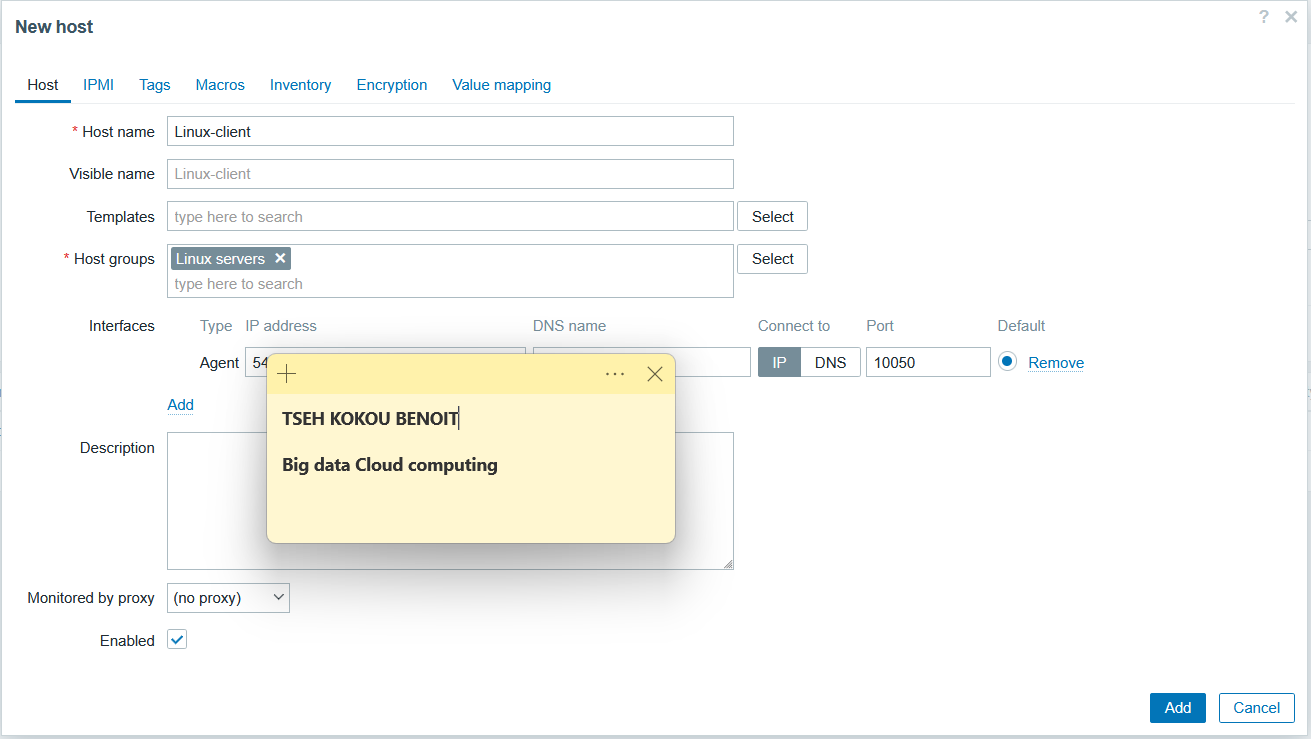
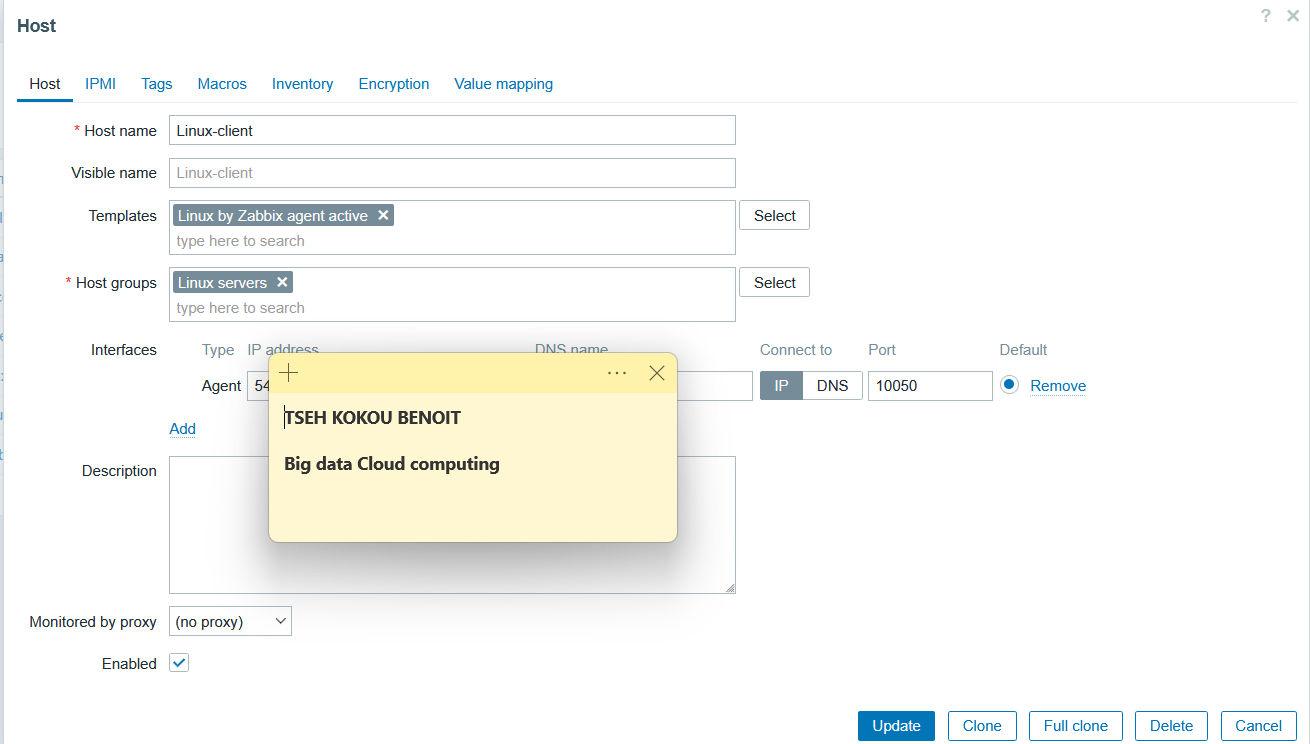
commit final

diff --git a/README.md b/README.md
@@ -247,8 +247,7 @@ ServerActive=ip du serveur
 Hostname=Nom_De_Cette_Instance
 ```
 
-
-Et oon redemarre le service :
+Et on redemarre le service :
 
 ```bash
 sudo systemctl restart zabbix-agent
@@ -260,6 +259,111 @@ sudo systemctl enable zabbix-agent
 On se connecter a l'interface de  Zabbix pour faire   complèter la configuration :
 ![config](./img/creationClientConfig.png)
 
+![linux client](./img/interfaceMoniterLinuxClient.png)
+
+### - Configuration d l'agent Windows-client :
+
+Nous telechargeons l'angents sur le client windows a l'adresse : [liens vers le  l'angents  zabbix windows](https://www.zabbix.com/download_agents)
+
+
+on passe en suite la 'installtion 
+
+- installation :
+  ![installation de windows](./img/zabbixWindowsInstallation.png)
+
+
+-  On verifie la connectivité :
+  ![connectivité](./img/ConnnectiviteWindowsClient.png)
+
+- Dans l'interface de client zabbix on ajoute le nouveau client en créant un host
+  ![creation de hoste](./img/creationWindowsHost.png)
+
+ - verifiaction de l'envoi des données :
+  ![ confirmation de la reception des données](./img/InterfaceWindowDonneerecu.png)
+
+---
+
+# Monitoring et Validation
+
+## -Création de dashboard  Global :
+Nous créons un Dashboard  global pour  affcichier  les metrics de nos clients.
+
+- Nous allons dans Dashboards  on clique sur  sur **Create dashboard**, On e nomme **Global Infrastructure Monitoring** :
+
+    - Le graphique CPU :
+
+        ->  Add widget et  on choisit le type Graph.
+
+        -> Dans le champ Item patterns, on cherche  **CPU utilization**.
+
+        -> Dans Host patterns, nous selectionnons la fois **Linux-client** et **Windows-client.**
+        
+        ![creation graph cpu](./img/creationCPUMonoitoring.png)
+       
+
+    - Graph de RAM :
+
+         -> on ajoute un widget de type graph.
+
+         -> On selectionne l'item Memory utilization.
+        
+        ![création graph ram](./img/creationMonitorigRAM.png)
+    On sauvegarde 
+
+
+## - Mise en place d'un Trigger (Alerte Proactive)
+
+Cela prouve que ton système est capable d'auto-surveillance. Nous allons simuler une alerte de charge CPU élevée.
+
+   -  Dans **Data Collection > Hosts**
+
+   - On choisi un  hôte (ex: Linux-client).
+
+   - on  Clique sur Create trigger en haut à droite.
+
+   - Configuration :
+
+       - Name : High CPU utilization on {HOST.NAME}.
+
+       - Severity : Choisissez High (Rouge).
+
+       - Expression : Clique sur Add, on cherche l'item CPU utilization, on choisit la fonction last() et mets > 10.
+       - Cliquez sur Add.
+
+       ![ttigger](./img/creationTriggers.png)
+   
+
+ On  peut voir un Dashboard Global qui est la fusion ici :
+ ![dashboard gloabl](./img/dashborglobal.png)
+
+
+
+
+---
+
+# Conclusion
+
+Le déploiement de cette infrastructure de monitoring hybride sur AWS constitue une démonstration concrète de l'interopérabilité entre les technologies Cloud, la conteneurisation et l'administration système multiplateforme.
+
+## 🎯 Bilan technique et objectifs atteints
+L'objectif principal, qui était de centraliser la surveillance d'un parc hétérogène (**Linux et Windows**) au sein d'un environnement réseau sécurisé, a été pleinement atteint. L'utilisation de **Zabbix 7.0 sous Docker** a permis de garantir une séparation stricte des services (Serveur, Base de données, Interface Web) tout en assurant une portabilité maximale de la solution.
+
+## 🛠 Analyse des défis et solutions apportées
+Le projet a présenté plusieurs défis techniques majeurs qui ont nécessité une analyse approfondie du fonctionnement des réseaux AWS :
+
+* **Gestion de l'adressage dynamique** : L'absence d'adresses IP publiques statiques sur les clients a été contournée avec succès par l'implémentation du mode **Active Agent**. Cette approche a permis de maintenir la remontée de métriques sans exposer les instances inutilement sur Internet.
+* **Sécurisation des flux** : La configuration granulaire des *Security Groups* et du *Windows Advanced Firewall* a permis de respecter le principe du moindre privilège tout en assurant une connectivité robuste sur les ports `10050` et `10051`.
+* **Connectivité hybride** : L'utilisation temporaire d'adresses IP Élastiques a démontré une compréhension du cycle de vie des ressources Cloud pour les phases de maintenance et de provisionnement.
+
+## 🚀 Perspectives d'évolution
+Cette architecture pose les jalons d'une supervision plus avancée. À l'avenir, le projet pourrait être valorisé par :
+
+1.  **L'intégration de Grafana** pour créer des visualisations de données de niveau "Business Intelligence".
+2.  **La mise en place d'un système d'alerte externe** (via Telegram ou Slack) pour notifier les administrateurs en temps réel.
+3.  **L'automatisation du déploiement** des agents via des outils d'Infrastructure as Code (IaC) comme **Ansible** ou **Terraform**.
+
+---
+> **Bilan final :** Ce projet m'a permis de consolider mes compétences en gestion de réseaux complexes et de confirmer l'efficacité de Zabbix comme outil de référence pour la supervision d'infrastructures modernes.
 
 
 
@@ -268,81 +372,3 @@ On se connecter a l'interface de  Zabbix pour faire   complèter la configuratio
 
 
 
-
-Étape 1 : Préparation de l'Infrastructure Cloud (AWS)
-
-C'est la fondation de votre projet. Vous devez créer un environnement réseau capable de faire communiquer le serveur et ses agents.
-
-    VPC & Réseau : Utilisez le VPC par défaut ou créez-en un nouveau avec un sous-réseau public dans la région us-east-1.
-
-    Security Groups (Critique) : Créez deux groupes de sécurité :
-
-        SG-Serveur : Autorisez le port 80 (Web), 22 (SSH) et surtout le port 10051 (Trapper) pour recevoir les données des agents.
-
-        SG-Clients : Autorisez le port 22 (SSH), 3389 (RDP pour Windows) et le port 10050 pour que le serveur puisse interroger les agents.
-
-    Lancement des Instances :
-
-        Zabbix Server : Instance t3.large sous Ubuntu 22.04.
-
-        Agent Linux : Instance t3.medium sous Ubuntu.
-
-        Agent Windows : Instance t3.large sous Windows Server (pour garantir la fluidité avec 8Go de RAM).
-
-Étape 2 : Déploiement du Serveur Zabbix avec Docker
-
-Sur votre instance Zabbix Server, exécutez les commandes suivantes :
-
-    Installer Docker :
-    Bash
-
-sudo apt update && sudo apt install docker.io docker-compose -y
-
-Déployer via Docker-Compose : Créez un fichier docker-compose.yml incluant les images zabbix-server-mysql, zabbix-web-nginx-mysql et mysql:8.0.
-
-Lancement :
-Bash
-
-    sudo docker-compose up -d
-
-    Vérification : Accédez à l'interface via http://<IP_PUBLIQUE_SERVEUR>. Les identifiants par défaut sont Admin / zabbix.
-
-Étape 3 : Configuration des Agents (Clients)
-
-Vous devez maintenant dire aux clients d'envoyer leurs données au serveur.
-
-    Sur Linux :
-
-        Installez l'agent : sudo apt install zabbix-agent.
-
-        Modifiez /etc/zabbix/zabbix_agentd.conf :
-
-            Server=<IP_PUBLIQUE_SERVEUR_ZABBIX>
-
-            Hostname=Client-Linux
-
-        Redémarrez : sudo systemctl restart zabbix-agent.
-
-    Sur Windows :
-
-        Téléchargez l'installeur MSI Zabbix Agent sur le site officiel.
-
-        Pendant l'installation, renseignez l'IP du serveur Zabbix dans le champ "Zabbix Server IP".
-
-Étape 4 : Monitoring et Validation
-
-    Ajout des Hôtes : Dans l'interface Zabbix, allez dans Configuration > Hosts > Create Host.
-
-    Templates : Utilisez les templates standards (Linux by Zabbix agent et Windows by Zabbix agent).
-
-    Vérification du statut : Attendez que l'icône ZBX devienne verte.
-
-Étape 5 : Préparation des Livrables (Conseils)
-
-    Captures d'écran : Prenez des captures nettes. Utilisez l'outil "Capture" de Windows. Annotez vos images (entourez l'IP ou le statut vert).
-
-    Vidéo (5-10 min) : 1. Montrez les instances sur AWS. 2. Montrez l'interface Zabbix avec les deux hôtes connectés. 3. Montrez un graphique de CPU en temps réel.
-
-    GitHub : Votre dépôt doit contenir votre docker-compose.yml, vos scripts de configuration et un beau README.md (celui que nous avons préparé ensemble).
-
-Rappel crucial : Dans le Learner Lab, les instances s'arrêtent automatiquement. Si vous reprenez votre travail après une pause, n'oubliez pas de relancer vos conteneurs avec docker-compose up -d sur le serveur.
